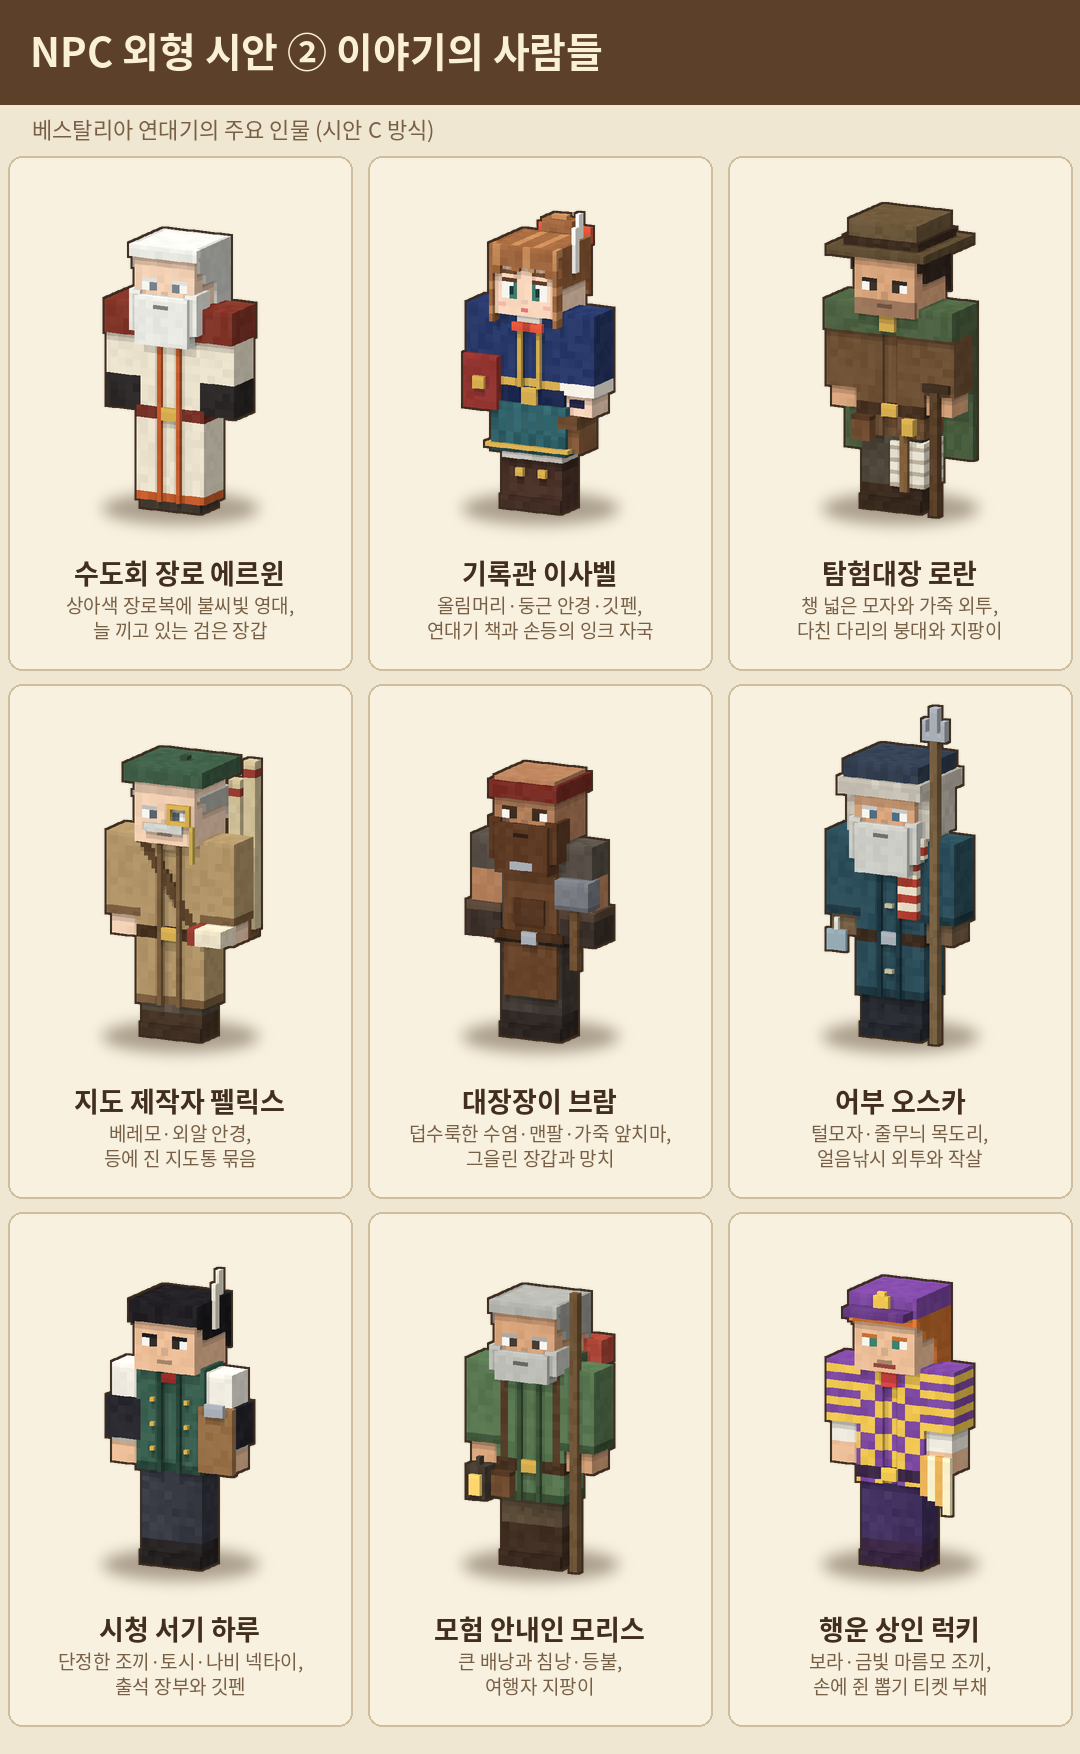
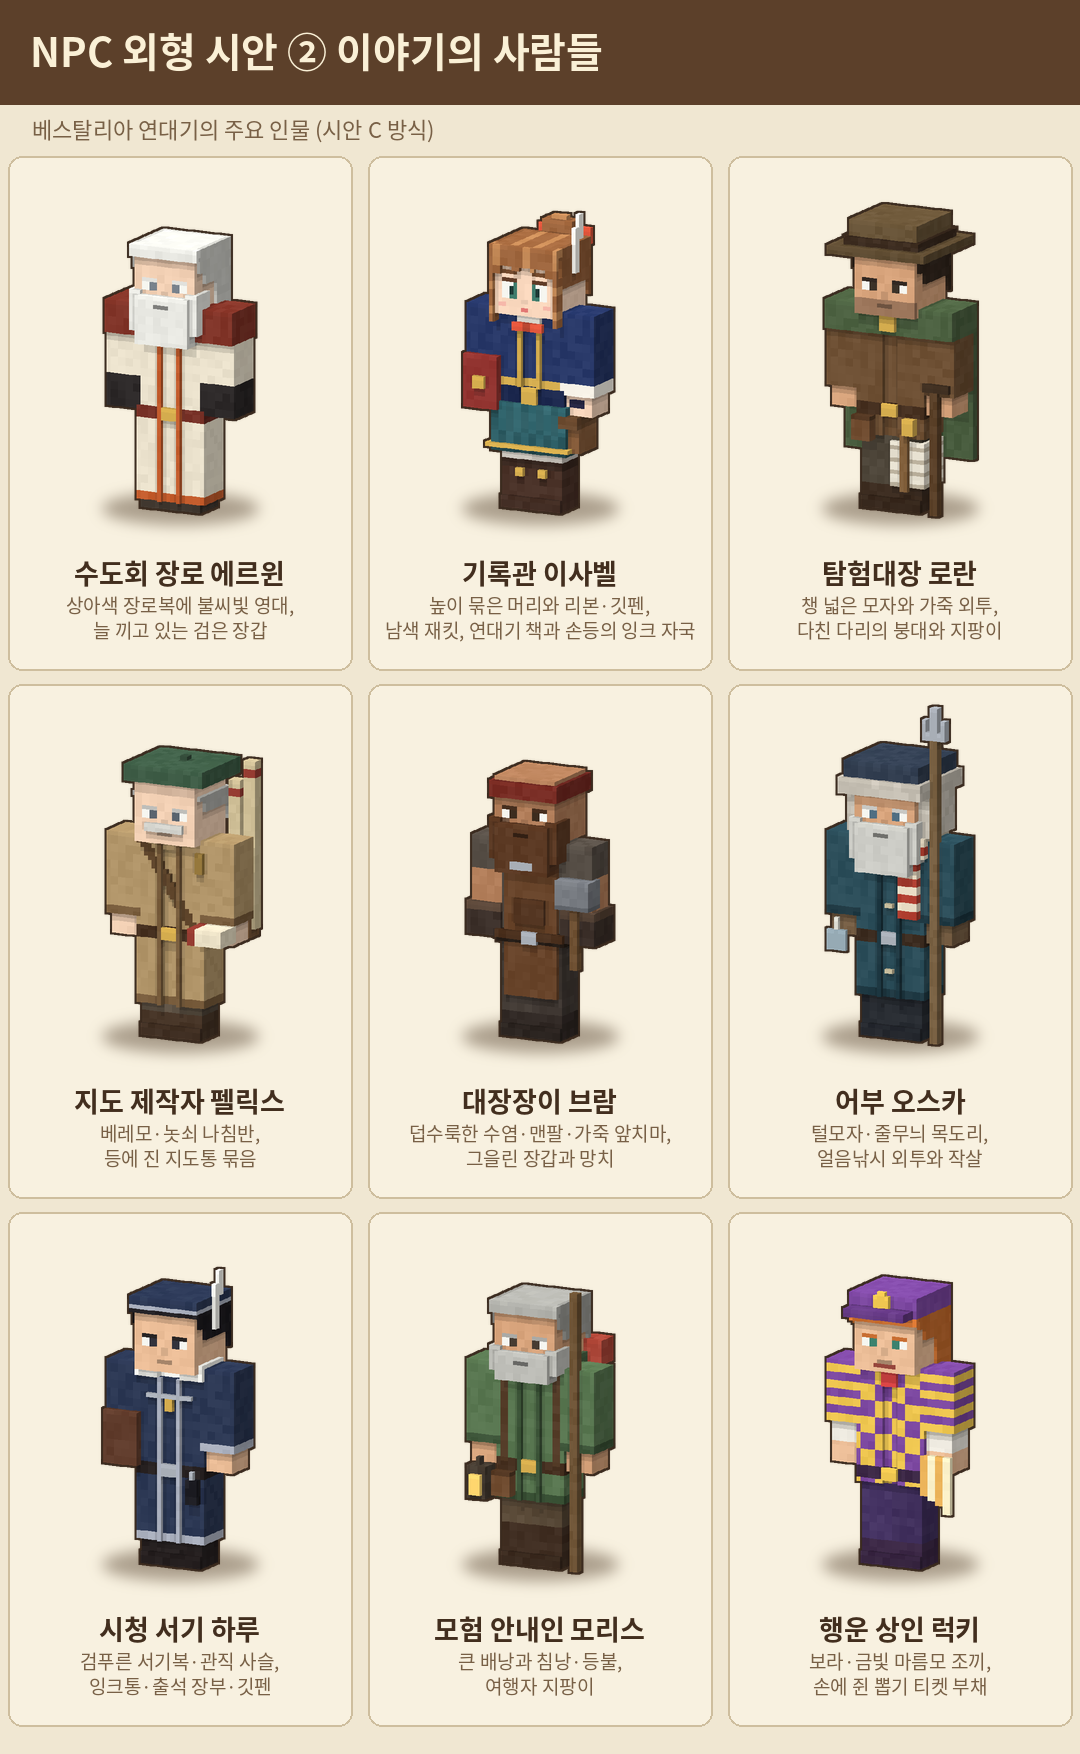
docs + tools: worklist, handoff, checklist for 3.62.0; design sheets; English export of the story script

diff --git a/tools/export_story_txt.py b/tools/export_story_txt.py
@@ -2,10 +2,28 @@
 import json, os, sys, re
 root = os.path.dirname(os.path.dirname(os.path.abspath(__file__)))
 data = json.load(open(os.path.join(root, 'src/main/resources/rtshop_defaults/quests/story.json'), encoding='utf-8'))
-out_path = sys.argv[1] if len(sys.argv) > 1 else 'story.txt'
-prefixes = tuple(sys.argv[2:]) or ('story_', 'hidden_')
+EN = '--en' in sys.argv   # 영어판: story_lang/en_us.json 의 번역으로 바꿔서 뽑는다 (번역이 없는 글은 한국어 그대로)
+_args = [a for a in sys.argv[1:] if a != '--en']
+out_path = _args[0] if _args else 'story.txt'
+prefixes = tuple(_args[1:]) or ('story_', 'hidden_')
+if EN:
+    _tr = json.load(open(os.path.join(root, 'src/main/resources/rtshop_defaults/story_lang/en_us.json'), encoding='utf-8'))
+    def _walk(x):
+        if isinstance(x, str): return _tr.get(x, x)
+        if isinstance(x, list): return [_walk(i) for i in x]
+        if isinstance(x, dict): return {k: (v if k in ('id', 'giver', 'target', 'type', 'kind', 'mod', 'npc', 'chain_raw') else _walk(v)) for k, v in x.items()}
+        return x
+    for _n in data["npcs"]: _n["name"] = _tr.get(_n["name"], _n["name"])
+    data["quests"] = [_walk(q) for q in data["quests"]]
+LBL = {"주는 사람": "Given by", "받을 때": "On accept", "진행 중": "In progress", "끝낼 때": "On completion", "끝낸 뒤": "After completion", "목표": "Goal", "동행": "Companion",
+       "선택": "Choice", "장 제목": "chapter title", "이름 적기": "names written", "환영": "vision", "한마디": "line", ", 잠들 때": ", in sleep",
+       "대화": "talk", "처치": "defeat", "가져오기": "bring", "찾아가기": "go to", "차원": "dimension", "조건": "condition", "발전과제": "advancement", "살펴보기": "examine", "지불": "pay", "방문": "visit",
+       "도착": "arrive", "전투": "fight", "위급": "in danger", "쉴 때": "idle", "흔적 발견": "trace found", "일을 마쳤을 때": "done",
+       "없을 때만": "is absent", "있을 때": "is present"}
+def T(x): return LBL.get(x, x) if EN else x
 npc = {"quest_" + n["id"]: n["name"] for n in data["npcs"]}
-npc.update({"quest_guide": "안내인 모리스", "shop_fisher": "어부 오스카", "attendance": "시청 서기 하루", "job": "직업 안내인 알버트"})
+npc.update({"quest_guide": "안내인 모리스", "shop_fisher": "어부 오스카", "attendance": "시청 서기 하루", "job": "직업 안내인 알버트"} if not EN else
+           {"quest_guide": "Morris the Guide", "shop_fisher": "Oscar the Fisher", "attendance": "Haru the Town Clerk", "job": "Albert the Job Guide"})
 npc.update({n["id"]: n["name"] for n in data["npcs"]})
 TYPE = {"TALK": "대화", "KILL": "처치", "DELIVER": "가져오기", "STRUCTURE": "찾아가기", "DIMENSION": "차원", "FLAG": "조건", "ADVANCEMENT": "발전과제",
         "INSPECT": "살펴보기", "PAY": "지불", "VISIT": "방문"}
@@ -16,12 +34,12 @@ def w(s=""): L.append(s)
 def scene(tag, s):
     if not s: return
     kind = s.get("kind")
-    if kind == "title": w("  [%s · 장 제목] %s 「%s」 — %s" % (tag, s.get("chapter", ""), s.get("title", ""), s.get("subtitle", "")))
+    if kind == "title": w(("  [%s · " + T("장 제목") + "] %s 「%s」 — %s") % (T(tag), s.get("chapter", ""), s.get("title", ""), s.get("subtitle", "")))
     elif kind == "names":
-        w("  [%s · 이름 적기] %s (%s)" % (tag, s.get("title", ""), s.get("speaker", "")))
+        w(("  [%s · " + T("이름 적기") + "] %s (%s)") % (T(tag), s.get("title", ""), s.get("speaker", "")))
         for t in s.get("text", "").split("\n"): w("      " + t)
     else:
-        w("  [%s · %s%s] %s:" % (tag, "환영" if kind == "vision" else "한마디", ", 잠들 때" if s.get("onSleep") else "", s.get("speaker", "")))
+        w("  [%s · %s%s] %s:" % (T(tag), T("환영" if kind == "vision" else "한마디"), T(", 잠들 때") if s.get("onSleep") else "", s.get("speaker", "")))
         for t in s.get("text", "").split("\n"): w("      " + t)
 last = None
 for q in data["quests"]:
@@ -31,28 +49,28 @@ for q in data["quests"]:
         w(); w("=" * 72); w(chap); w("=" * 72); last = chap
     _m = re.search(r"\(([^()]*)\)$", q.get("chain", ""))
     w(); w("■ %s  %s" % (_m.group(1) if _m else "", q["title"]))
-    w("  주는 사람: " + npc.get(q["giver"], q["giver"]))
+    w("  " + T("주는 사람") + ": " + npc.get(q["giver"], q["giver"]))
     scene("받을 때", q.get("sceneAccept"))
-    w("  [받을 때] " + q["intro"])
-    w("  [진행 중] " + q["progress"])
+    w("  [" + T("받을 때") + "] " + q["intro"])
+    w("  [" + T("진행 중") + "] " + q["progress"])
     for o in q["objectives"]:
         mod = o.get("mod", "")
         note = ""
-        if mod: note = "  (%s 모드가 %s)" % (MODS.get(mod.lstrip("!"), mod.lstrip("!")), "없을 때만" if mod.startswith("!") else "있을 때")
+        if mod: note = ("  (when the %s mod %s)" if EN else "  (%s 모드가 %s)") % (MODS.get(mod.lstrip("!"), mod.lstrip("!")), T("없을 때만" if mod.startswith("!") else "있을 때"))
         label = o.get("text") or npc.get(o.get("target", ""), o.get("target", ""))
         cnt = " x%d" % o["count"] if o.get("count", 1) > 1 else ""
-        w("  ◇ 목표 [%s] %s%s%s" % (TYPE.get(o["type"], o["type"]), label, cnt, note))
+        w(("  ◇ " + T("목표") + " [%s] %s%s%s") % (T(TYPE.get(o["type"], o["type"])), label, cnt, note))
         for ln in o.get("lines", []):
             w("      " + (ln if isinstance(ln, str) else json.dumps(ln, ensure_ascii=False)))
     c = q.get("companion")
     if c:
-        w("  ◇ 동행: %s" % npc.get(c["npc"], c["npc"]))
+        w(("  ◇ " + T("동행") + ": %s") % npc.get(c["npc"], npc.get("quest_" + c["npc"], c["npc"])))
         WHEN = {"arrive": "도착", "fight": "전투", "low": "위급", "idle": "쉴 때", "spot": "흔적 발견", "done": "일을 마쳤을 때"}
         for k, v in c.get("lines", {}).items():
-            for t in (v.values() if isinstance(v, dict) else v): w("      (%s) %s" % (WHEN.get(k, k), t))
-    w("  [끝낼 때] " + q["done"])
+            for t in (v.values() if isinstance(v, dict) else v): w("      (%s) %s" % (T(WHEN.get(k, k)), t))
+    w("  [" + T("끝낼 때") + "] " + q["done"])
     for ch in q.get("choices", []):
-        w("  ▶ 선택: " + ch["text"])
+        w("  ▶ " + T("선택") + ": " + ch["text"])
     scene("끝낸 뒤", q.get("sceneDone"))
-open(out_path, 'w', encoding='utf-8').write("베스탈리아 연대기 — 스토리 대사 모음\n(■ 퀘스트 / ◇ 목표·동행 / ▷ 플레이어의 대답 / ▶ 선택지)\n" + "\n".join(L) + "\n")
+open(out_path, 'w', encoding='utf-8').write(("The Vestalia Chronicle — story script (English version)\n(■ quest / ◇ goal · companion / ▷ the player's reply / ▶ choice)\n" if EN else "베스탈리아 연대기 — 스토리 대사 모음\n(■ 퀘스트 / ◇ 목표·동행 / ▷ 플레이어의 대답 / ▶ 선택지)\n") + "\n".join(L) + "\n")
 print(len(L), "lines ->", out_path)

diff --git a/tools/mock/npc_mock.py b/tools/mock/npc_mock.py
@@ -571,16 +571,16 @@ def main(out):
         ('시안 B', '팔다리가 움직이고\n물건을 들 수 있음', i.flat(), K1), ('시안 C', '가장 인물다움\n(②~④ 는 이 방식)', i, K1)],
           cols=4, cw=300, ch=380, tag_h=112, foot='A: 그림 파일만 바꿈 (가장 가벼움)  ·  B: 사람 모델 + 인물별 스킨  ·  C: B + 인물별 입체 부품 (가장 손이 많이 감)')
     sheet(os.path.join(out, 'npc_looks_2_story.png'), 'NPC 외형 시안 ② 이야기의 사람들', '베스탈리아 연대기의 주요 인물 (시안 C 방식)', [
-        ('수도회 장로 에르윈', '상아색 장로복에 불씨빛 영대,\n늘 끼고 있는 검은 장갑', erwin(), K), ('기록관 이사벨', '올림머리·둥근 안경·깃펜,\n연대기 책과 손등의 잉크 자국', isabel(), K),
-        ('탐험대장 로란', '챙 넓은 모자와 가죽 외투,\n다친 다리의 붕대와 지팡이', roran(), K), ('지도 제작자 펠릭스', '베레모·외알 안경,\n등에 진 지도통 묶음', felix(), K),
+        ('수도회 장로 에르윈', '상아색 장로복에 불씨빛 영대,\n늘 끼고 있는 검은 장갑', erwin(), K), ('기록관 이사벨', '높이 묶은 머리와 리본·깃펜,\n남색 재킷, 연대기 책과 손등의 잉크 자국', isabel(), K),
+        ('탐험대장 로란', '챙 넓은 모자와 가죽 외투,\n다친 다리의 붕대와 지팡이', roran(), K), ('지도 제작자 펠릭스', '베레모·놋쇠 나침반,\n등에 진 지도통 묶음', felix(), K),
         ('대장장이 브람', '덥수룩한 수염·맨팔·가죽 앞치마,\n그을린 장갑과 망치', bram(), K), ('어부 오스카', '털모자·줄무늬 목도리,\n얼음낚시 외투와 작살', oscar(), K),
-        ('시청 서기 하루', '단정한 조끼·토시·나비 넥타이,\n출석 장부와 깃펜', haru(), K), ('모험 안내인 모리스', '큰 배낭과 침낭·등불,\n여행자 지팡이', morris(), K),
+        ('시청 서기 하루', '검푸른 서기복·관직 사슬,\n잉크통·출석 장부·깃펜', haru(), K), ('모험 안내인 모리스', '큰 배낭과 침낭·등불,\n여행자 지팡이', morris(), K),
         ('행운 상인 럭키', '보라·금빛 마름모 조끼,\n손에 쥔 뽑기 티켓 부채', lucky(), K)])
     sheet(os.path.join(out, 'npc_looks_3_merchants.png'), 'NPC 외형 시안 ③ 상인들', '무엇을 파는지 멀리서도 알아보게 (시안 C 방식)', [
-        ('농작물 상인', '밀짚모자·멜빵바지,\n당근이 담긴 바구니', m_farmer(), K), ('식품 상인', '요리사 모자·흰 조리복,\n붉은 목수건과 국자', m_food(), K),
+        ('농작물 상인', '밀짚모자·땋은 머리·앞치마,\n당근이 담긴 바구니', m_farmer(), K), ('식품 상인', '흰 쓰개·큰 앞치마,\n나무 국자와 양념 주머니', m_food(), K),
         ('수산물 상인', '노란 비옷과 비모자,\n손에 든 생선과 장화', m_fish(), K), ('장비 상인', '가죽 흉갑·강철 견갑,\n허리의 검과 팔 방패', m_gear(), K),
-        ('잡화 상인', '조각 천 외투,\n냄비까지 매단 큰 봇짐', m_general(), K), ('토지 상인', '자줏빛 예복과 높은 모자,\n봉랍 찍힌 땅문서', m_land(), K),
-        ('은행원', '금테 안경·초록 제복,\n금고 열쇠와 금화 상자', m_bank(), K), ('티켓 판매원', '붉은 줄무늬 조끼와 모자,\n티켓 두루마리', m_ticket(), K),
+        ('잡화 상인', '조각 천 외투,\n냄비까지 매단 큰 봇짐', m_general(), K), ('토지 상인', '자줏빛 가운과 두건 모자,\n봉랍 찍힌 땅문서·측량 막대', m_land(), K),
+        ('은행원', '초록 가운·모피 깃·금 사슬,\n금고 열쇠와 금화 상자', m_bank(), K), ('티켓 판매원', '붉고 흰 전령 겉옷·깃털 모자,\n티켓 두루마리', m_ticket(), K),
         ('레이드 상인', '검붉은 두건 망토와 흉갑,\n전리품 상자', m_raid(), K)])
     sheet(os.path.join(out, 'npc_looks_4_masters.png'), 'NPC 외형 시안 ④ 직업 교관 · 기록 담당', '직업의 무기와 성격이 한눈에 (시안 C 방식)', [
         ('검술 교관 레온', '강철 흉갑·푸른 겉옷,\n등에 멘 대검', leon(), K), ('전사 대장 브론', '붉은 수염·털가죽 어깨,\n큰 양손 도끼', bron(), dict(S=7.4)),
@@ -588,5 +588,8 @@ def main(out):
         ('대마법사 엘리스', '보라 로브와 뾰족 모자,\n수정 지팡이', elis(), dict(S=7.4)), ('현상금 게시판지기 가렛', '안대·낡은 가죽 외투,\n가슴의 수배서와 벽보 뭉치', garret(), K),
         ('순위 기록원 테오', '주황 조끼·삐친 머리,\n순위 장부와 귀의 연필', theo(), K), ('칭호 관리인 아델', '흰 예복·금테·푸른 띠,\n가슴의 약장(略章)', adel(), K),
         ('레이드 안내인', '판금과 회색 망토,\n횃불과 붕대 감은 팔', raid_guide(), K)])
+    sheet(os.path.join(out, 'npc_looks_5_added.png'), 'NPC 외형 시안 ⑤ 3.62 에 더한 사람들', '전용 모습이 없던 세 사람 (시안 C 방식)', [
+        ('직업 안내인 알버트', '청회색 스승복과 어깨 망토,\n다섯 직업의 색 표·두루마리', albert(), K), ('식당 주인 로렌초', '말아 올린 콧수염·머릿수건,\n얼룩진 앞치마와 프라이팬', lorenzo(), K),
+        ('출석 상점 주인 엘리', '연분홍 머릿수건·땋은 머리,\n출석 도장 바구니', eli(), K)])
 
 if __name__ == '__main__': main(sys.argv[1] if len(sys.argv) > 1 else '/tmp/npc_looks')

diff --git a/docs/worklist.md b/docs/worklist.md
@@ -272,3 +272,27 @@
   - 아직 없는 것 (사용자에게 알림): ① 주식·히든 직업(가·나·다를 아직 고르지 않음) ② 보스·레이드 음악(곡 파일 대기) ③ 마을 이식 명령(A-12, 설명만) ④ 히든 아이템 3개(A-14, 보류) ⑤ Cinematic Cataclysm 컷신 그대로 쓰기 ⑥ 스킬라 다섯째 단서의 종류(지금은 바다 낚시 — 사용자가 고르기로 했던 것).
   - 스토리 대사 합본 txt 를 다시 뽑아 보냄 (`tools/export_story_txt.py`).
 - 자체 점검: 서버 2개("3.61 reports …", "3.61 npc looks …"), 화면 5개(NPC 외형 2 · 보스 카메라 2 · 민원 창 1) + 스크린샷 131 · 132 · 133 · 133b.
+
+## 3.62.0 (2026-11-26 밤, 가지 v5-next12)
+
+요청: "① 보스 연출을 재탕하지 않고 보스마다의 특징이 드러나게, Cinematic Cataclysm 컷신 활용 ② NPC 디자인이 겹치지 않게 알버트·로렌초 재구성 ③ NPC 의 외형과 말투가 어울리게 ④ 시대 배경과 안 맞는 몇몇 NPC 재구성 + 스크린샷 여섯 장의 스토리 평가(1~5 는 예전 판, 6 은 최신판)를 바탕으로 수정·개선" + "작업이 끝나면 대사의 번역판도".
+
+- H-1. 보스 연출 ✔
+  - Cinematic Cataclysm(1.0.1) 연동: 기억의 문 안에서 이그니스 · 리바이어던 · 고대의 잔해 · 말레딕투스를 깨울 때 그 모드의 컷신 엔티티를 경기장 가운데에 세운다 (`StoryArena.startModCutscene`: `<보스>CutsceneEntity.summon(Level, Vec3, GlobalPos)` 를 리플렉션으로; 말레딕투스는 방향 둘이 더 든다). 컷신이 끝나 그 모드가 진짜 보스를 세우면 넘겨받는다(`adoptBoss`, 45초 안에 안 서면 예전처럼 직접 세움). 넘겨받은 뒤 우리 쪽은 이름만 띄운다(카메라는 다시 안 움직임). 끄기 `story_arenas.json` 의 `modCutscenes`. 스킬라는 제 건축물에서 싸우므로 그 모드가 알아서 튼다.
+  - 그 모드를 들여다본 결과: `ci-inspect` 가지의 `cincat-files.txt` · `cincat-sigs.txt` · `cincat-code.txt` (inspect 단계가 jar 를 못 찾던 것을 고침). 컷신에는 글(대사)이 없다 — 언어 파일이 비어 있음.
+  - 컷신이 없는 보스: 카메라 방식 여덟 (`client/BossCam`: orbit · rise · descend · pushin · sweep · low · spiral · behind), 보스마다 배정(`BossIntros.CAMS`, 없는 보스는 orbit).
+- H-2. NPC 디자인 ✔ (`tools/mock/npc_mock.py`, 모습 30개)
+  - 전용 모습: 알버트(차분한 스승: 청회색 스승복·다섯 직업의 색 표·두루마리) · 로렌초(콧수염·머릿수건·얼룩진 앞치마·프라이팬) · 엘리(출석 상점: 머릿수건·땋은 머리·도장 바구니 — 전에는 하루의 모습을 빌려 썼다). `npc_looks.json` 2판(1판의 기본값 그대로일 때만 바꿔 줌).
+  - 시대에 맞춤: 하루(조끼·토시·나비넥타이 → 서기복·관직 사슬·잉크통) · 한나(멜빵바지 → 블라우스·치마·앞치마) · 마르타(요리사 모자·조리복 → 쓰개·앞치마) · 그레고리(금테 안경·제복 → 가운·모피 깃·금 사슬) · 루시(줄무늬 조끼 → 반반 전령 겉옷·깃털 모자) · 에드먼드(높은 모자 → 두건 모자·가운) · 펠릭스(외알 안경 → 놋쇠 나침반).
+  - 말투와 맞춤(gen_dialogue.py 머리말의 말투): 한나 밝은 아가씨 · 마르타 다정한 아주머니 · 루시 발랄 · 엘리 상냥 · 그레고리·에드먼드·하루 격식 · 알버트 차분한 스승 · 로렌초 호탕.
+  - 쓰이지 않게 된 모습: `m_fish`(노란 비옷 — 수산물 상인은 오스카의 모습), `m_gear`. 옛 그림은 `*_old()` 로 남김.
+- H-3. 스토리 (평가에서 되풀이된 지적 위주)
+  - "처치 퀘스트가 이야기와 겉돈다": 1장 「나는 모른다」 좀비 6 → 밤 들판의 시든 것을 지켜본 뒤 따라온 3마리를 재움 / 숨은 이야기 「보랏빛 잉크의 행방」 습격 소환사 3 → 늪의 단지를 유리판에 비춰 봄(처치 없음) / 「천 번 고쳐 쓴 한 줄」 문지기 6 → 초고를 들고 나오는 길을 막는 2.
+  - "벨로크와 싸우는 이유가 약하다": 「다정한 거짓말」에 싸우기 전 거울에 김을 내어 글로 말을 거는 걸음. 그가 믿지 않는 까닭(회색 망토 셋이 같은 말을 들고 왔었다)과 싸움의 뜻("내 손에서 가져갈 수 있는 자라면 그 아이 앞에서도 지킬 것")을 그의 말로.
+  - "이사벨이 다 해석한다": 스킬라 「마중의 항해일지」에서 세 가지 추리(깨진 글자 · 폭풍이 봉인마다 다녀감 · 폭풍의 눈)를 플레이어의 대답으로.
+  - "잉크 점이 너무 많다": 1장의 두 곳에서 뺌(도윈의 등불 → 책 묶는 끈, 마녀의 꼬리표).
+  - "설명조": 서장 에르윈의 수업을 이름을 묻고 명부에 적는 것으로 연다.
+  - "조연의 밀도": 대화 주제 셋 — 하루 「서기의 첫날」 · 가렛 「안대」 · 로렌초 「벨리시모」 (대화 17판).
+  - 손대지 못한 것: 본편 중반(엘레나 → 도윈 → 사막 → 보랏빛 잉크)의 호흡을 늘리는 일, 이사벨의 동행 횟수 조절, 2~4장의 처치 목표 전반. 다음에 한다면 장 하나씩.
+- H-4. 대사 번역판 ✔: `tools/export_story_txt.py --en` (story_lang/en_us.json 으로 바꿔 뽑음). 한국어판 · 영어판 txt 를 사용자에게 보냄. (요청의 "한국어 번역판"을 "한국어 대사의 번역판 = 영어판"으로 읽었다고 알림.)
+- 자체 점검: 서버 "3.62 boss cutscenes …"(모드가 있으면 네 컷신이 실제로 시작되는지), 화면의 보스 카메라 점검에 방식(spiral) 확인.

diff --git a/docs/review_checklist.md b/docs/review_checklist.md
@@ -80,3 +80,9 @@
 - [ ] 이사벨의 새 모습이 마음에 드는지
 - [ ] 보스 등장 카메라: 기억의 문 안에서 보스가 깨어날 때 카메라가 보스 둘레를 돌고 내 눈으로 돌아오는지. 멀미가 나거나 길면 알려 주기 (끄기 `client.json` 의 `bossCamera`)
 - [ ] 민원: 시청 서기 하루와의 대화에 「민원 접수 · 내 민원 보기」가 뜨는지, 분류를 고르고 글을 써 접수되는지, 운영자(크리에이티브)의 `/rtshop report all` 에 분류가 보이고 [답변]·[종결] 단추가 되는지, 답이 달리면 플레이어에게 알림이 가는지
+
+## 3.62 에서 더한 것
+- [ ] 보스 컷신: 기억의 문에서 이그니스 · 리바이어던 · 고대의 잔해 · 말레딕투스를 깨울 때 Cinematic Cataclysm 의 컷신이 나오는지, 컷신이 끝난 뒤 보스가 서고 싸움이 이어지는지, 둥근 경기장에서 컷신의 카메라가 어색하지 않은지 (어색하면 `story_arenas.json` 의 `modCutscenes` 를 false 로 두고 알려 주기)
+- [ ] 보스 카메라: 보스마다 움직임이 다른지 (호르스 = 곧게 다가감 · 프로스트모/몬스트로시티 = 발치에서 올라감 · 움부티/애쉬로드 = 위에서 내려옴 · 조각가/하빈저 = 돌며 솟음 · 헬바르/벨로크 = 어깨 너머 · 시로크/워든 = 땅바닥)
+- [ ] NPC 새 디자인: 알버트 · 로렌초 · 엘리 · 하루 · 한나 · 마르타 · 그레고리 · 루시 · 에드먼드 · 펠릭스
+- [ ] 스토리: 1장 「나는 모른다」의 밤 들판 장면, 숨은 이야기의 유리판 · 거울에 글 쓰기 · 스킬라 단서 맞추기의 대답
